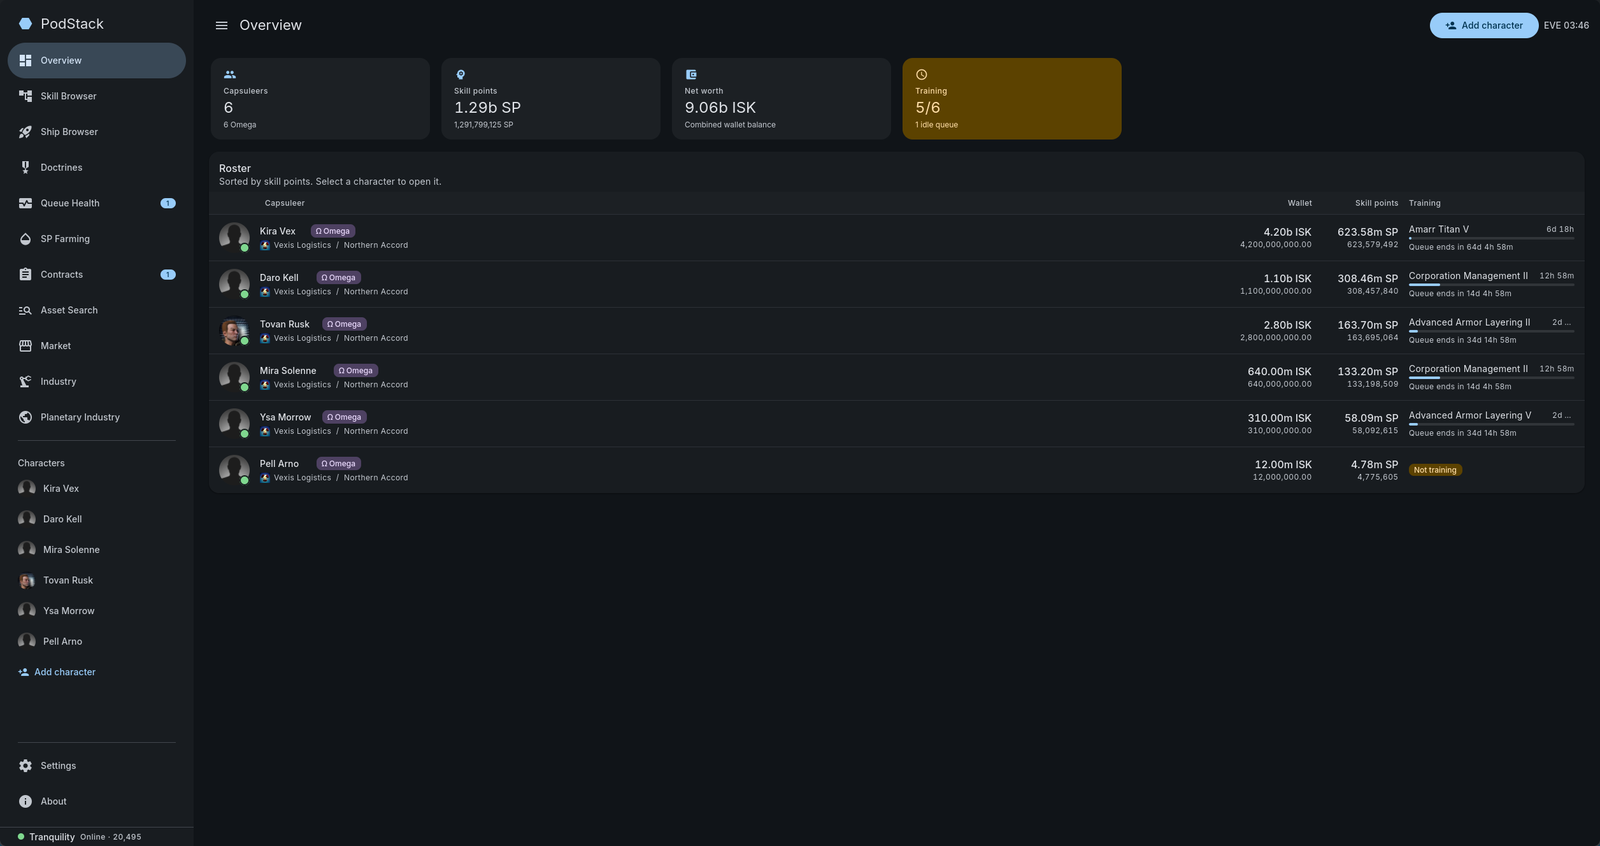
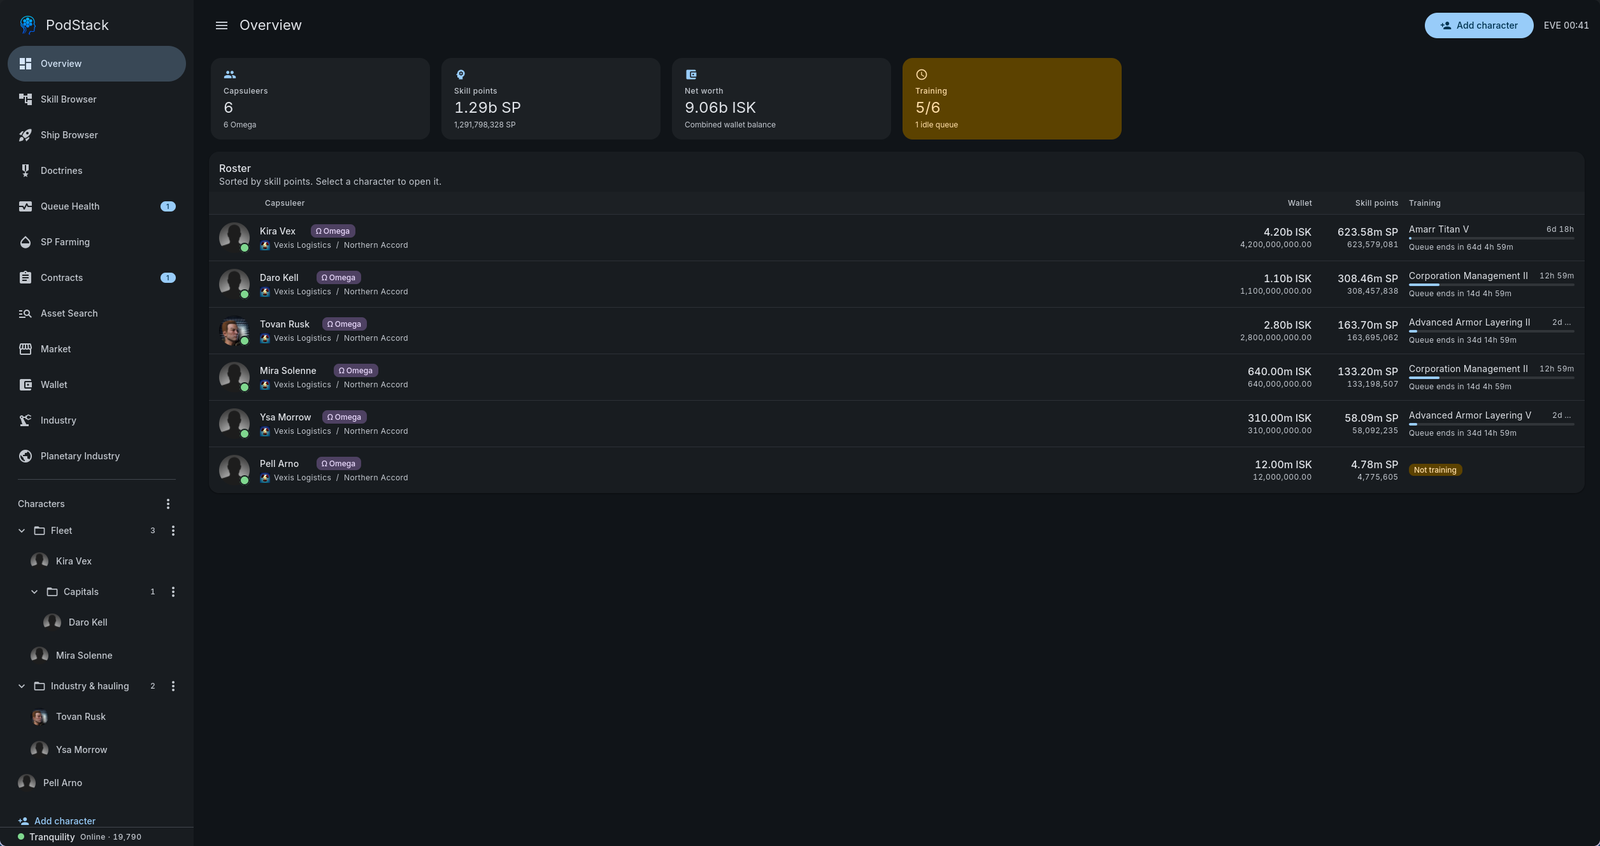
README: the wallet, sidebar folders, ground-up industry, doctrine ships and ships as containers
New screenshots of the overview with folders, the wallet, the industry planner
building a titan, doctrine ships and the assets tab, taken from the demo data.
The demo now fits modules in high, mid, low and rig slots by name instead of
putting every module in a low slot.

diff --git a/crates/core/examples/demo_data.rs b/crates/core/examples/demo_data.rs
@@ -452,9 +452,15 @@ fn add_assets(dir: &std::path::Path, doc: &DoctrineDoc, places: &[Place]) {
             }
             // a ship fitted otherwise keeps only its first module
             let rest = fit.items.iter().skip(1).take(if *how == 'o' { 1 } else { usize::MAX });
-            for (slot, i) in rest.enumerate() {
+            let mut used: BTreeMap<&str, usize> = BTreeMap::new();
+            for i in rest {
                 let flag = match i.category.as_str() {
-                    "Module" | "Subsystem" => format!("LoSlot{slot}"),
+                    "Module" | "Subsystem" => {
+                        let rack = slot_rack(&i.name);
+                        let n = used.entry(rack).or_default();
+                        *n += 1;
+                        format!("{rack}{}", *n - 1)
+                    }
                     "Drone" => "DroneBay".into(),
                     _ => "Cargo".into(),
                 };
@@ -780,4 +786,20 @@ async fn main() {
     add_accounts(&dir);
     core.universe.flush();
     println!("demo data written to {} ({} contracts, {} doctrine fits)", dir.display(), archive.contracts.len(), doc.fit_count());
+}
+
+/// The rack a module goes in, guessed from its name: the demo's fits carry no slot data, and the assets view sorts
+/// and labels fitted modules by rack.
+fn slot_rack(name: &str) -> &'static str {
+    let n = name.to_lowercase();
+    let has = |words: &[&str]| words.iter().any(|w| n.contains(w));
+    if has(&["trimark", "pump", "purger", "rigor", "flare", "field extender", "core defense", "auxiliary nano", "ancillary current router", "polycarbon", "hyperspatial", "burst aerator", "collision accelerator", "metastasis", "semiconductor memory", "energy discharge", "anti-"]) {
+        "RigSlot"
+    } else if has(&["laser", "blaster", "railgun", "autocannon", "artillery", "launcher", "neutralizer", "nosferatu", "remote", "smartbomb", "cloak", "salvager", "tractor", "cyno", "probe launcher", "cannon", "beam", "pulse", "doomsday"]) {
+        "HiSlot"
+    } else if has(&["shield extender", "shield booster", "shield hardener", "invulnerability", "multispectrum shield", "warp disruptor", "warp scrambler", "stasis", "webifier", "afterburner", "microwarpdrive", "capacitor booster", "cap booster", "sensor booster", "tracking computer", "target painter", "ecm", "sensor dampener", "weapon disruptor", "heavy capacitor booster", "propulsion"]) {
+        "MedSlot"
+    } else {
+        "LoSlot"
+    }
 }

diff --git a/README.md b/README.md
@@ -48,6 +48,9 @@ contracts over the last six months.
 
 - **Overview** of every character: Alpha/Omega, corporation and alliance, wallet, skill points, the skill in
   training and time left.
+- **Your own order in the sidebar.** Drag characters to reorder them, and sort them into folders and subfolders
+  (by account, by corporation, by role: fleet, capitals, industry, scouts…), collapsed or open as you like. "Group
+  by account" and "Group by corporation" fill the folders for you to start from.
 - **Character pages** with summary, skills, skill plans, clones and implants, mail, wallet (journal, transactions
   and balance chart), market orders, contracts, assets, industry, research agents, planets, notifications,
   calendar, standings, contacts, kill log, medals and ESI scope health.
@@ -58,6 +61,20 @@ contracts over the last six months.
   glance.
 - **SP farming**: farms, injectors ready, time to the next one, and ISK per farm per month after fees, extractors
   and Omega or MCT costs.
+
+### Wallet
+
+- **Every wallet together**: combined balance, income, spending and net for the last 7, 30 or 90 days or all of
+  it, per day on a chart.
+- **Where the ISK comes from**: ratting (bounties and ESS), missions, market sales split into ore and minerals,
+  planetary materials and other goods, contracts, skill injectors, insurance and more.
+- **Where it goes**: market purchases, taxes and broker fees, industry jobs, PLEX, skills and clones, and the
+  rest.
+- **Top earning activities** after each activity's own costs, so you can see whether ratting, mining, trading or
+  SP farming actually pays, and a per-character table of who earns what and how. Every category opens the journal
+  entries behind it.
+
+<img src="docs/screenshots/wallet.png" width="100%" alt="The wallet across all characters, with income by source">
 
 ### Doctrines
 
@@ -113,8 +130,11 @@ From a first frigate to alliance capital programs.
 - **Blueprints** you own, and every blueprint in the game.
 - **Calculator**: materials, time and job cost for any manufacturing, reaction, invention or research job, with
   the system's cost index, structure and rig bonuses, facility tax and decryptors.
-- **Planner**: build anything (a shopping list, a fit, a fleet of titans) down to raw materials, with every
-  reaction, component, invention and purchase, split into jobs across your characters' slots.
+- **Planner**: build anything (a shopping list, a fit, a fleet of titans) from the ground up: every component
+  that has a blueprint and every reaction under it, down to raw materials. Each job is costed the way the game
+  does it (materials rounded per job, estimated item value, the system cost index, facility tax and the SCC
+  surcharge), with a build tree, a table of every job, a shopping list, and a build time scheduled across the job
+  slots of the characters you pick.
 - **Facilities** with your structures and rigs, and **Systems** to find the cheapest place to build.
 
 <img src="docs/screenshots/industry.png" width="100%" alt="The industry calculator">
@@ -130,7 +150,12 @@ From a first frigate to alliance capital programs.
 
 ### Everything else
 
+- **Assets** per character, as a flat list or with **ships as containers**: fitted modules, drones and cargo sit
+  under their ship, and the ship's value includes everything in it.
 - **Asset search** across all characters, with estimated values.
+- **Doctrine ships**: for every character and doctrine, which fits they can fly, which of those they own a ship
+  for (and where), and what the missing ones cost at Jita, per doctrine, per character, per account and overall,
+  with a shopping list.
 - **Alerts on your desktop and on Discord**: training stopped or running low, lapsed to Alpha, injector ready,
   contract completed or assigned to you, courier due soon, new mail, jump fatigue ended, industry job ready, PI
   extractor stopped, market order finished, new notifications, calendar events, a login that stopped working, and
@@ -152,6 +177,10 @@ From a first frigate to alliance capital programs.
 | Contracts: courier history | Planetary industry: production chains |
 | <img src="docs/screenshots/market.png" alt="The market browser"> | <img src="docs/screenshots/industry.png" alt="The industry calculator"> |
 | Market browser | Industry: a Tech II build with invention |
+| <img src="docs/screenshots/planner.png" alt="The industry planner building a titan"> | <img src="docs/screenshots/doctrine-ships.png" alt="Doctrine ships owned and missing"> |
+| Industry planner: a titan from the ground up | Asset search: doctrine ships owned, missing and their cost |
+| <img src="docs/screenshots/assets.png" alt="Assets with ships as containers"> | <img src="docs/screenshots/wallet.png" alt="The wallet across all characters"> |
+| Assets: ships as containers | Wallet: income and spending across characters |
 
 ## Install
 
